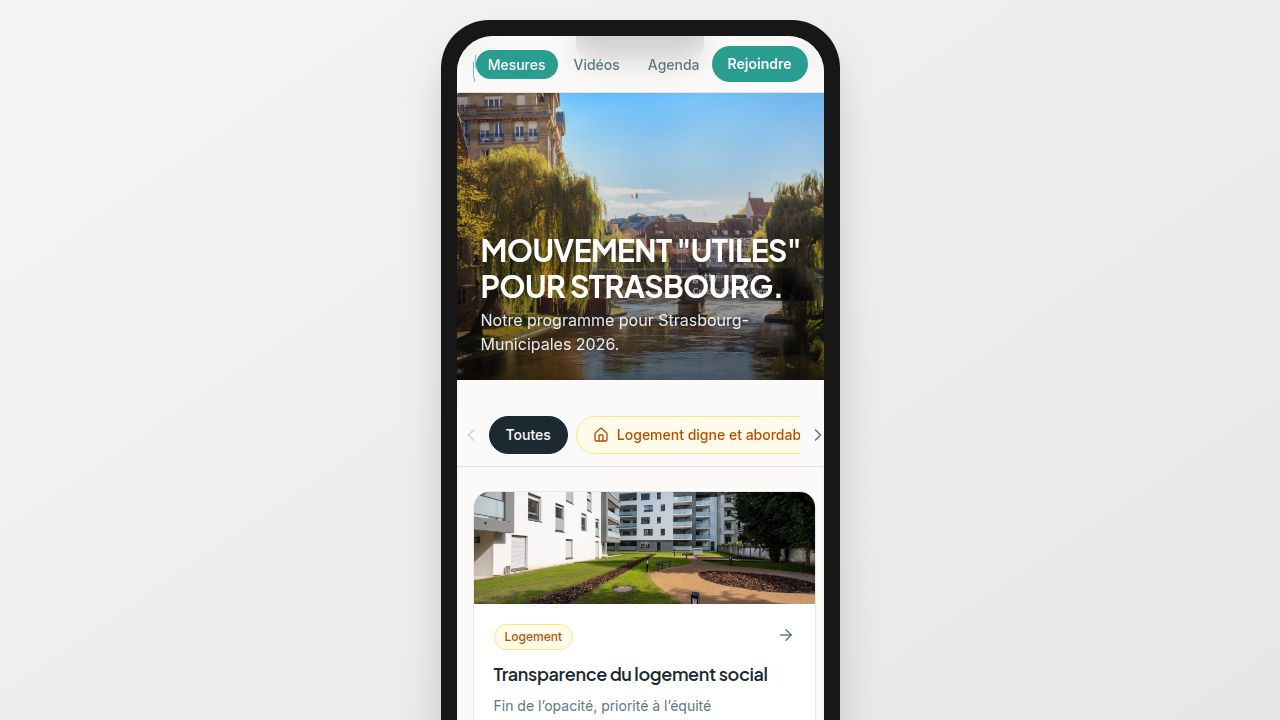
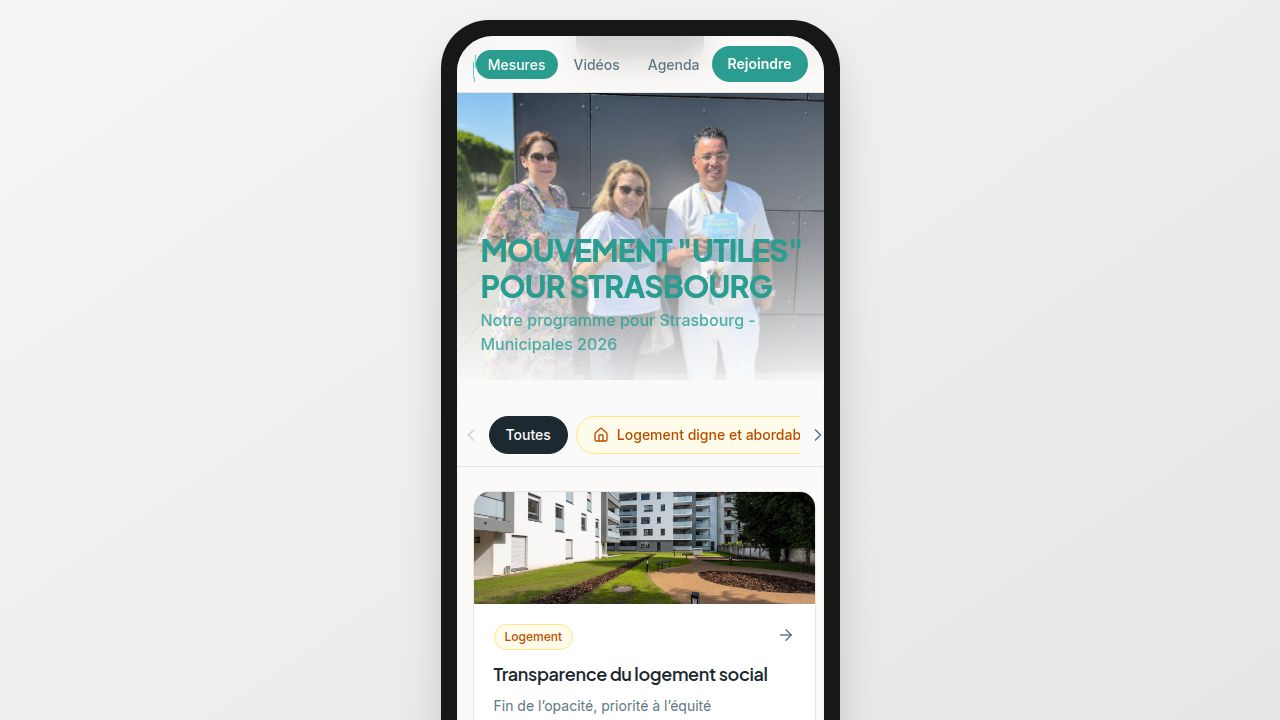
Update website header and program measures with new visuals
Update HeroSection component with new background image and title styling. Modify cover image for 'jeunesse-clauses' measure. Add new image files.

Replit-Commit-Author: Agent
Replit-Commit-Session-Id: 1703bec5-6408-4646-ba93-b8c6a1c21d9c
Replit-Commit-Checkpoint-Type: full_checkpoint
Replit-Commit-Event-Id: a7c3a779-36ac-4cbc-a880-869b97f00cff
Replit-Commit-Screenshot-Url: https://storage.googleapis.com/screenshot-production-us-central1/ec70ea8e-bdb7-4617-b2cb-5cd2de7edaff/1703bec5-6408-4646-ba93-b8c6a1c21d9c/goaP3Ya
Replit-Helium-Checkpoint-Created: true

Changed region(s): [[0.3438, 0.1222, 0.6562, 0.55]]

diff --git a/client/src/components/HeroSection.tsx b/client/src/components/HeroSection.tsx
@@ -1,22 +1,20 @@
-import { heroImage } from "@/data";
-
 export function HeroSection() {
   return (
     <section className="relative -mx-4 mb-6 animate-fade-up">
       <div className="relative h-56 sm:h-72 overflow-hidden">
         <img
-          src={heroImage}
-          alt="Strasbourg, ville verte et apaisée"
-          className="w-full h-full object-cover"
+          src="/measures/hero-people.jpg"
+          alt="Mouvement Utiles pour Strasbourg"
+          className="w-full h-full object-cover object-[50%_35%]"
           loading="eager"
         />
-        <div className="absolute inset-0 bg-gradient-to-t from-black/60 via-black/20 to-transparent" />
+        <div className="absolute inset-0 bg-gradient-to-t from-white/90 via-white/40 to-transparent" />
         <div className="absolute bottom-0 left-0 right-0 p-5 sm:p-6">
-          <h1 className="font-display font-bold text-2xl sm:text-3xl text-white mb-1 drop-shadow-lg">
-            MOUVEMENT "UTILES" POUR STRASBOURG.
+          <h1 className="font-display font-black text-2xl sm:text-3xl text-primary mb-1 uppercase tracking-tight">
+            MOUVEMENT "UTILES" POUR STRASBOURG
           </h1>
-          <p className="text-white/90 text-sm sm:text-base drop-shadow-md">
-            Notre programme pour Strasbourg- Municipales 2026.
+          <p className="text-primary/80 font-medium text-sm sm:text-base">
+            Notre programme pour Strasbourg - Municipales 2026
           </p>
         </div>
       </div>

diff --git a/client/src/data/index.ts b/client/src/data/index.ts
@@ -479,7 +479,7 @@ export const measures: Measure[] = [
     "proposition": "Fixer des objectifs progressifs: au moins 10% des heures sur certains marchés pour apprentissage, stages qualifiés ou embauches, avec priorité aux parcours fragilisés.",
     "miseEnOeuvre": "Clauses types, pilotage par la Ville, reporting annuel, contrôle d’exécution.",
     "indicateur": "Heures dédiées à la jeunesse, Nombre de jeunes bénéficiaires/an, Part quartiers prioritaires",
-    "coverImage": "/measures/jeunesse-clauses.jpg",
+    "coverImage": "/measures/sport-santé.jpg",
     "coverAlt": "Clauses d’embauche jeunesse dans les marchés",
     "isKeyMeasure": false
   },
